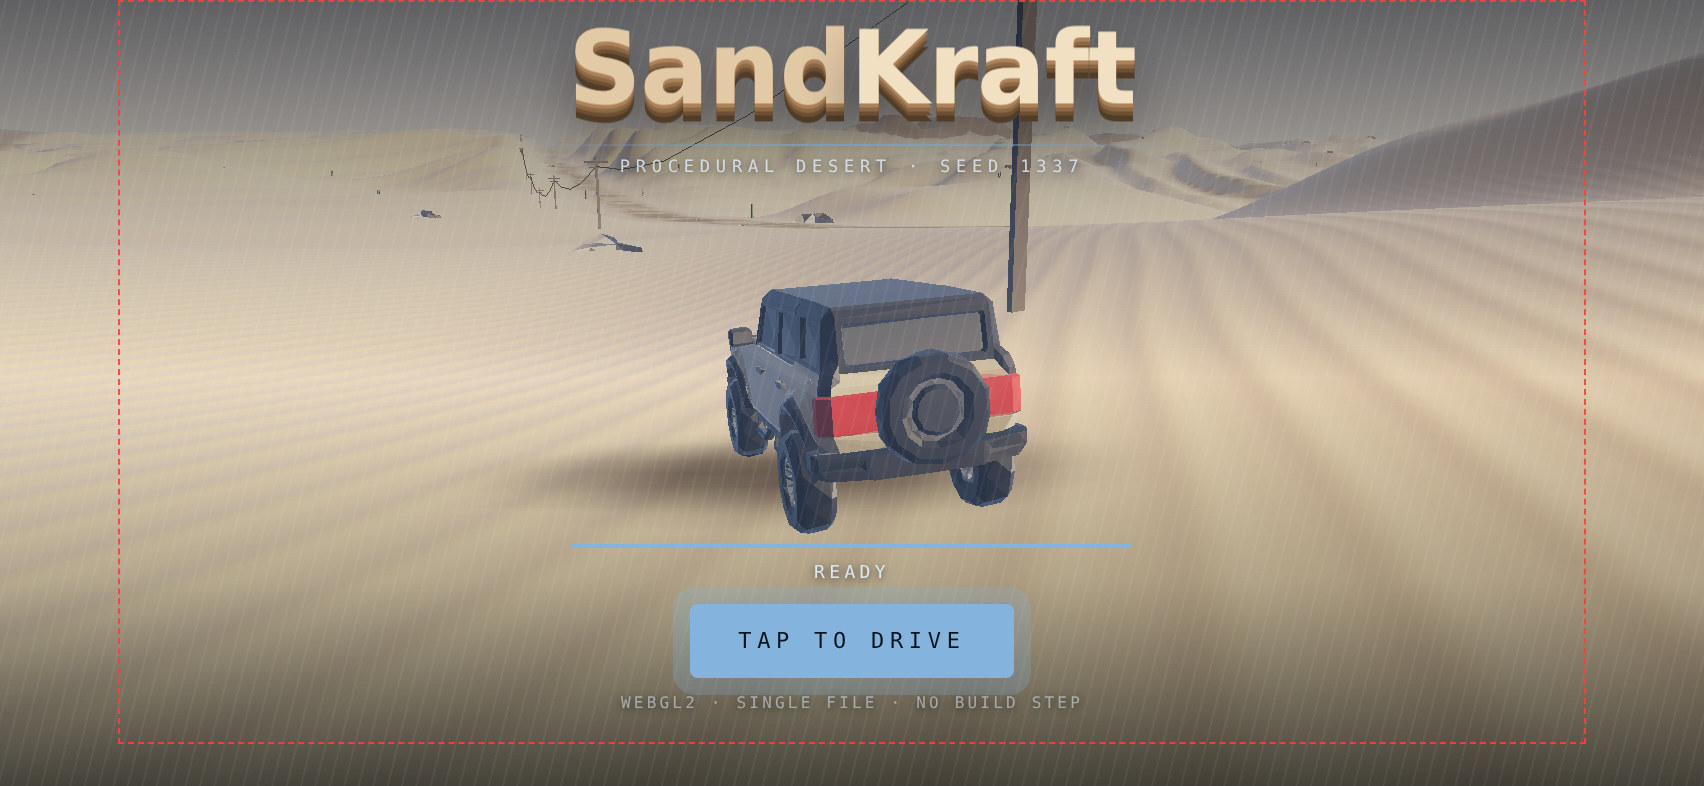
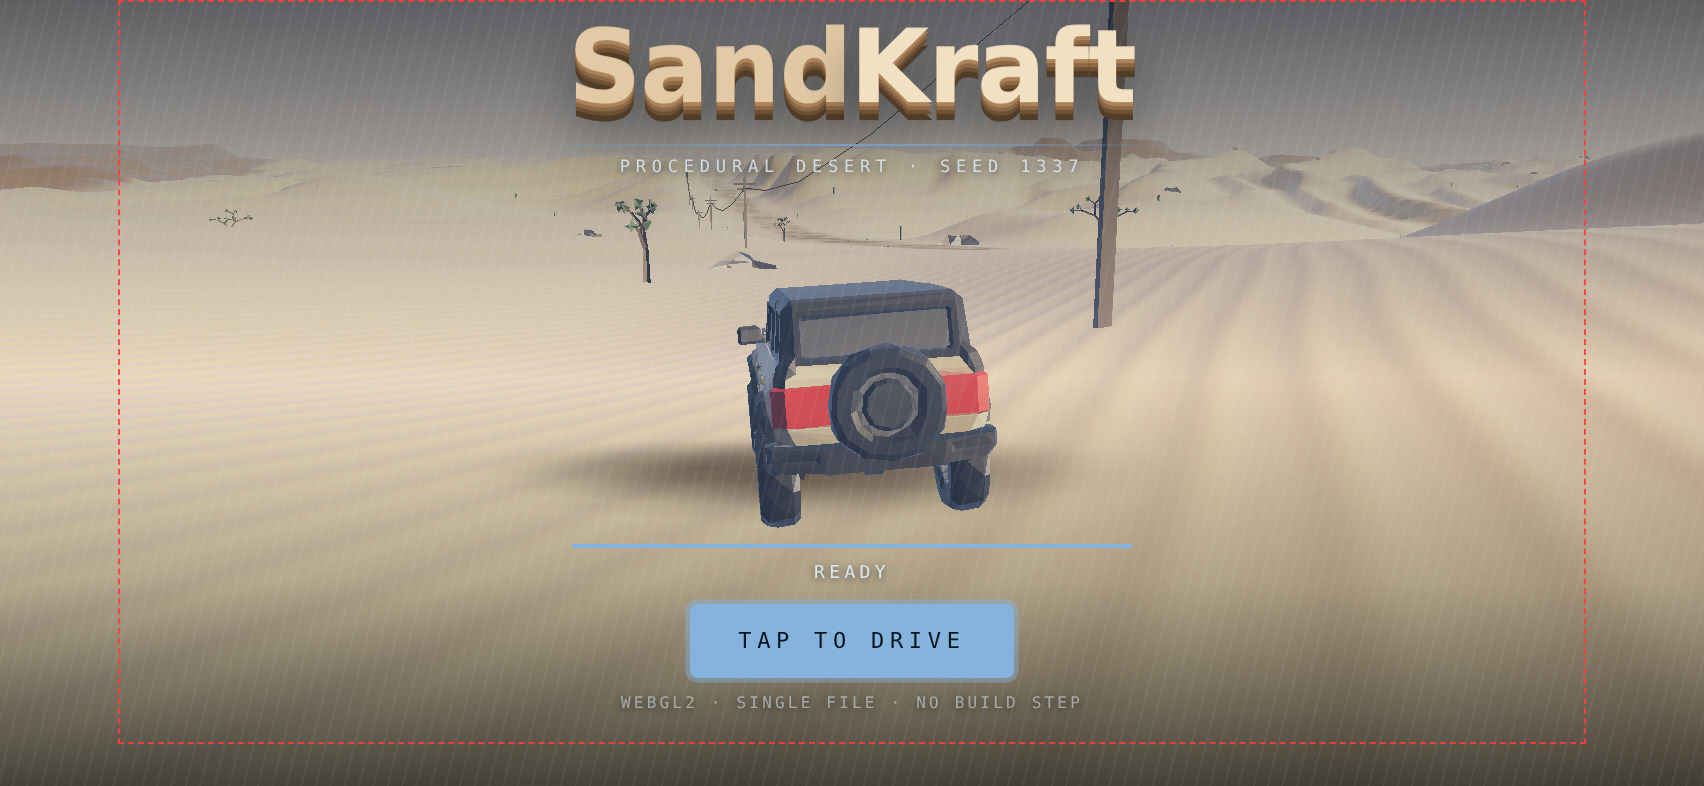
Joshua trees on the bajadas around the buttes
The plant that says Mojave rather than Sahara. Built, not modelled: a trunk
forking three times with each fork tilting further from vertical, ending in
spiky crowns, on a new limb primitive that draws a tapered cylinder between two
arbitrary points — cylY covers anything that stands up straight, but a Joshua
tree is all elbows.

Cost was the whole design problem. Crowns as rings of little cones are the
honest shape and were 250 of the plant's 456 triangles; as jittered bipyramids
with alternating long and short equatorial points they are 16 triangles that
still read as a pom-pom rather than as the green crate a uniform ring gives.
That bought a third level of forking, which is what actually makes the
silhouette recognisable. 314 triangles.

They gate on the rock mask, so they cluster on the gravel apron around the
buttes and the two biomes meet in a band of vegetation rather than a hard edge.
The first pass put down four trees per square kilometre because the slope gate
was rejecting 96% of attempts against a dune field whose median slope is 15.6°;
at 21.5° it passes, and the count is tuned from there. They also only instance
inside a 340 m disc rather than the full prop radius — a 314-triangle tree at
500 m is a smudge, and the saving is what pays for a stand dense enough to see.

Measured: 120 trees per km² near rock, 52 in open sand, peak 66 instances
against a 128 cap over 60 sampled locations, so nothing pops. They are soft
[…]

diff --git a/index.html b/index.html
@@ -1567,6 +1567,88 @@ MB.prototype.cylY = function (c, r, halfH, segs, col, capCol) {
   }
 };
 
+/* Tapered cylinder between two arbitrary points. cylY is enough for anything
+   that stands up straight; a Joshua tree is all forks and elbows. */
+MB.prototype.limb = function (p, q, r0, r1, segs, col, cap) {
+  const dx = q[0] - p[0], dy = q[1] - p[1], dz = q[2] - p[2];
+  const L = Math.hypot(dx, dy, dz);
+  if (L < 1e-6) return;
+  const ax = dx / L, ay = dy / L, az = dz / L;
+  /* any reference not parallel to the axis will do for the first cross */
+  const rx = Math.abs(ay) > 0.9 ? 1 : 0, ry = Math.abs(ay) > 0.9 ? 0 : 1, rz = 0;
+  let sx = ay * rz - az * ry, sy = az * rx - ax * rz, sz = ax * ry - ay * rx;
+  const sl = Math.hypot(sx, sy, sz) || 1; sx /= sl; sy /= sl; sz /= sl;
+  const tx = ay * sz - az * sy, ty = az * sx - ax * sz, tz = ax * sy - ay * sx;
+  const ring = (end, i) => {
+    const th = 2 * Math.PI * (i % segs) / segs, c = Math.cos(th), s = Math.sin(th);
+    const r = end ? r1 : r0, o = end ? q : p;
+    return [o[0] + (sx * c + tx * s) * r, o[1] + (sy * c + ty * s) * r, o[2] + (sz * c + tz * s) * r];
+  };
+  for (let i = 0; i < segs; i++) {
+    /* q-ring first, so the winding matches cylY and the flat normals face out */
+    this.quad(ring(1, i), ring(1, i + 1), ring(0, i + 1), ring(0, i), col);
+    if (cap) this.tri(q, ring(1, i + 1), ring(1, i), cap);
+  }
+};
+
+/* ---- Joshua tree: the thing that says Mojave rather than Sahara ---- */
+function joshuaMesh(seedOff) {
+  const mb = new MB();
+  const bark = [0.112, 0.089, 0.068], barkTop = [0.132, 0.107, 0.079];
+  const leaf = [0.082, 0.132, 0.072], leafTip = [0.112, 0.168, 0.092];
+  let hs = seedOff;
+  const rnd = () => hash2(hs++, seedOff * 7 + 3);
+  /* A rosette as a ring of little cones is the honest shape and costs 250
+     triangles, which is most of the tree; six of them made a 456-triangle
+     plant. This is a jittered bipyramid instead — 12 triangles that read as a
+     spiky pom-pom from anywhere you would actually see one from. */
+  const rosette = (at, dir, scale) => {
+    const up = dir;
+    const sx = Math.abs(up[1]) > 0.9 ? 1 : 0, sy = Math.abs(up[1]) > 0.9 ? 0 : 1;
+    let ax = -up[2] * sy, ay = up[2] * sx, az = up[0] * sy - up[1] * sx;
+    const al = Math.hypot(ax, ay, az) || 1; ax /= al; ay /= al; az /= al;
+    const bx = up[1] * az - up[2] * ay, by = up[2] * ax - up[0] * az, bz = up[0] * ay - up[1] * ax;
+    /* Alternating long and short points around the equator: the silhouette
+       comes out as a star rather than the hexagonal box a uniform ring gives,
+       which is the difference between a pom-pom and a green crate. */
+    const R = 0.34 * scale, HI = 0.38 * scale, LO = 0.15 * scale;
+    const N = 8, eq = [];
+    for (let i = 0; i < N; i++) {
+      const th = 6.283 * i / N;
+      const r = R * ((i & 1 ? 0.40 : 1.0) * (0.80 + rnd() * 0.42));
+      const c = Math.cos(th) * r, s = Math.sin(th) * r;
+      const lift = (rnd() - 0.42) * 0.30 * scale;
+      eq.push([at[0] + ax * c + bx * s + up[0] * lift,
+               at[1] + ay * c + by * s + up[1] * lift,
+               at[2] + az * c + bz * s + up[2] * lift]);
+    }
+    const top = [at[0] + up[0] * HI, at[1] + up[1] * HI, at[2] + up[2] * HI];
+    const bot = [at[0] - up[0] * LO, at[1] - up[1] * LO, at[2] - up[2] * LO];
+    for (let i = 0; i < N; i++) {
+      mb.tri(top, eq[i], eq[(i + 1) % N], leafTip);
+      mb.tri(bot, eq[(i + 1) % N], eq[i], leaf);
+    }
+  };
+  const branch = (from, dir, len, r, depth) => {
+    const to = [from[0] + dir[0] * len, from[1] + dir[1] * len, from[2] + dir[2] * len];
+    mb.limb(from, to, r, r * 0.74, depth === 0 ? 6 : 4, bark, barkTop);
+    if (depth >= 3) { rosette(to, dir, 0.85 + rnd() * 0.45); return; }
+    const n = 2;
+    for (let i = 0; i < n; i++) {
+      /* fork away from the parent, tilting further from vertical each time —
+         that widening zig-zag is the whole silhouette of the species */
+      const th = 6.283 * i / n + rnd() * 1.1;
+      const tilt = 0.42 + rnd() * 0.40 + depth * 0.10;
+      const nx = dir[0] + Math.cos(th) * tilt, nz = dir[2] + Math.sin(th) * tilt;
+      const ny = dir[1] - tilt * 0.28;
+      const l = Math.hypot(nx, ny, nz) || 1;
+      branch(to, [nx / l, ny / l, nz / l], len * (0.62 + rnd() * 0.18), r * 0.68, depth + 1);
+    }
+  };
+  branch([0, 0, 0], [0, 1, 0], 1.55 + hash2(seedOff, 7) * 0.75, 0.21, 0);
+  return mb;
+}
+
 /* ---- oil drum: knockable, so it wants a bit of shape ---- */
 function drumMesh() {
   const mb = new MB();
@@ -1609,7 +1691,7 @@ function hatMesh() {
 
 const MESH = {
   rockA: null, rockB: null, pylon: null, wreck: null, car: null, wheel: null,
-  drum: null, cactusA: null, cactusB: null, hat: null
+  drum: null, cactusA: null, cactusB: null, hat: null, joshA: null, joshB: null
 };
 MESH.rockA = rockMesh(3).uploadInstanced(320);
 MESH.rockB = rockMesh(17).uploadInstanced(320);
@@ -1619,6 +1701,8 @@ MESH.drum = drumMesh().uploadInstanced(64);
 MESH.cactusA = cactusMesh(5).uploadInstanced(96);
 MESH.cactusB = cactusMesh(23).uploadInstanced(96);
 MESH.hat = hatMesh().uploadInstanced(4);
+MESH.joshA = joshuaMesh(11).uploadInstanced(128);
+MESH.joshB = joshuaMesh(37).uploadInstanced(128);
 
 /* ---- the truck: low-poly boxy 4-door body, stand-in for the Meshy mesh ----
    Body space: +z forward, +y up, origin at the axle midpoint ~0.49 m over the
@@ -1807,6 +1891,7 @@ function updateProps(px, pz) {
 
   colliders.length = 0;
   MESH.cactusA.inst = 0; MESH.cactusB.inst = 0; MESH.hat.inst = 0;
+  MESH.joshA.inst = 0; MESH.joshB.inst = 0;
   const seen = new Set();
 
   const pushInst = (m, x, y, z, s, rot, tint, ys) => {
@@ -1839,6 +1924,33 @@ function updateProps(px, pz) {
         pushInst(h1 > 0.5 ? MESH.cactusA : MESH.cactusB, x, y, z, s, h2 * 6.283, 0.9 + h1 * 0.3, s);
         /* one sphere at bumper height is what actually matters */
         colliders.push({ x, y: y + 0.95 * s, z, r: 0.5 * s, kind: SOFT, id });
+      }
+
+      /* Joshua trees. They favour the gravel apron around the buttes rather
+         than open sand, so the rock mask nearby gates them — which also means
+         the two biomes meet in a band of vegetation instead of a hard edge. */
+      const near = rockAt(ox + CELL * 0.5, oz + CELL * 0.5);
+      const density = smoothstep(0.02, 0.45, near) * 0.90 + 0.05;
+      const nj = Math.floor(hash2(gx * 19 - 7, gz * 23 + 11) * 90.0 * density);
+      for (let k = 0; k < nj; k++) {
+        const h1 = hash2(gx * 47 + k * 5, gz * 53 - k * 3);
+        const h2 = hash2(gx * 59 - k * 11, gz * 29 + k);
+        const x = ox + h1 * CELL, z = oz + h2 * CELL;
+        /* a stand dense enough to read costs more instances than the far half
+           of the prop radius is worth — a 314-triangle tree at 500 m is a
+           smudge, so they only exist inside a tighter disc */
+        if (Math.hypot(x - px, z - pz) > 340) continue;
+        if (roadness(x, z) > 0.15) continue;
+        if (rockAt(x, z) > 0.80) continue;           /* not on bare cap or cliff */
+        normalAt(_pn, x, z, 3);
+        if (_pn.y < 0.930) continue;                 /* nothing grows on a slip face */
+        const id = 'j' + gx + ',' + gz + ',' + k;
+        if (brokenProps.has(id)) continue;
+        const s = 1.00 + hash2(gx - k * 3, gz + k * 7) * 0.85;
+        const y = heightAt(x, z) - 0.10;
+        pushInst(h2 > 0.5 ? MESH.joshA : MESH.joshB, x, y, z, s, h1 * 6.283, 0.9 + h2 * 0.28, s);
+        /* the trunk is what you actually hit; the crown is above bumper height */
+        colliders.push({ x, y: y + 0.85 * s, z, r: 0.46 * s, kind: SOFT, id });
       }
 
       /* drum clusters, rare, and only where a road crew might have left them */
@@ -1912,6 +2024,7 @@ function updateProps(px, pz) {
     if (!seen.has(drums[i].id) && Math.hypot(drums[i].x - px, drums[i].z - pz) > 700) drums.splice(i, 1);
 
   MESH.cactusA.flush(); MESH.cactusB.flush(); MESH.hat.flush();
+  MESH.joshA.flush(); MESH.joshB.flush();
 }
 
 /* --------------------------------------------- impacts and damage ------- */
@@ -3090,6 +3203,8 @@ function render() {
   drawInstanced(MESH.rockB);
   drawInstanced(MESH.pylon);
   drawInstanced(MESH.wreck);
+  drawInstanced(MESH.joshA);
+  drawInstanced(MESH.joshB);
   drawInstanced(MESH.cactusA);
   drawInstanced(MESH.cactusB);
   drawInstanced(MESH.hat);

diff --git a/README.md b/README.md
@@ -160,6 +160,23 @@ so there is no physics library here either. Boulders are hard (restitution 0.18,
 they stop you) and oil drums are dynamic: 55 kg against 2100, so a 60 mph hit
 launches one at 34 m/s while the truck barely slows.
 
+Joshua trees are the plant that says Mojave rather than Sahara, and they are
+built rather than modelled: a trunk that forks three times, each fork tilting
+further from vertical, ending in spiky crowns. Two things kept the cost down.
+The crowns started as rings of little cones — the honest shape, and 250 of the
+plant's 456 triangles — and are now jittered bipyramids with alternating long
+and short points around the equator, which is 16 triangles that still read as a
+pom-pom rather than as the green crate a uniform ring gives. That bought the
+budget for a third level of forking, which is what makes the silhouette read.
+314 triangles, and they behave like saguaros when you hit one: coasting head-on
+at 45 mph leaves 24 mph and snaps the trunk.
+
+They favour the gravel apron around the buttes, gated on the rock mask, so the
+two biomes meet in a band of vegetation instead of a hard edge — measured at
+120 per km² near rock against 52 out in open sand, peaking at 66 instances of a
+128 cap, so none of them pop. They only instance inside a 340 m disc rather
+than the full prop radius: a 314-triangle tree at 500 m is a smudge.
+
 Saguaros are soft, which takes two mechanisms rather than one. Their normal
 impulse is capped, so the plant yields rather than cancelling two tonnes of
 momentum — but a cap alone re-fires every substep and stops the truck by
